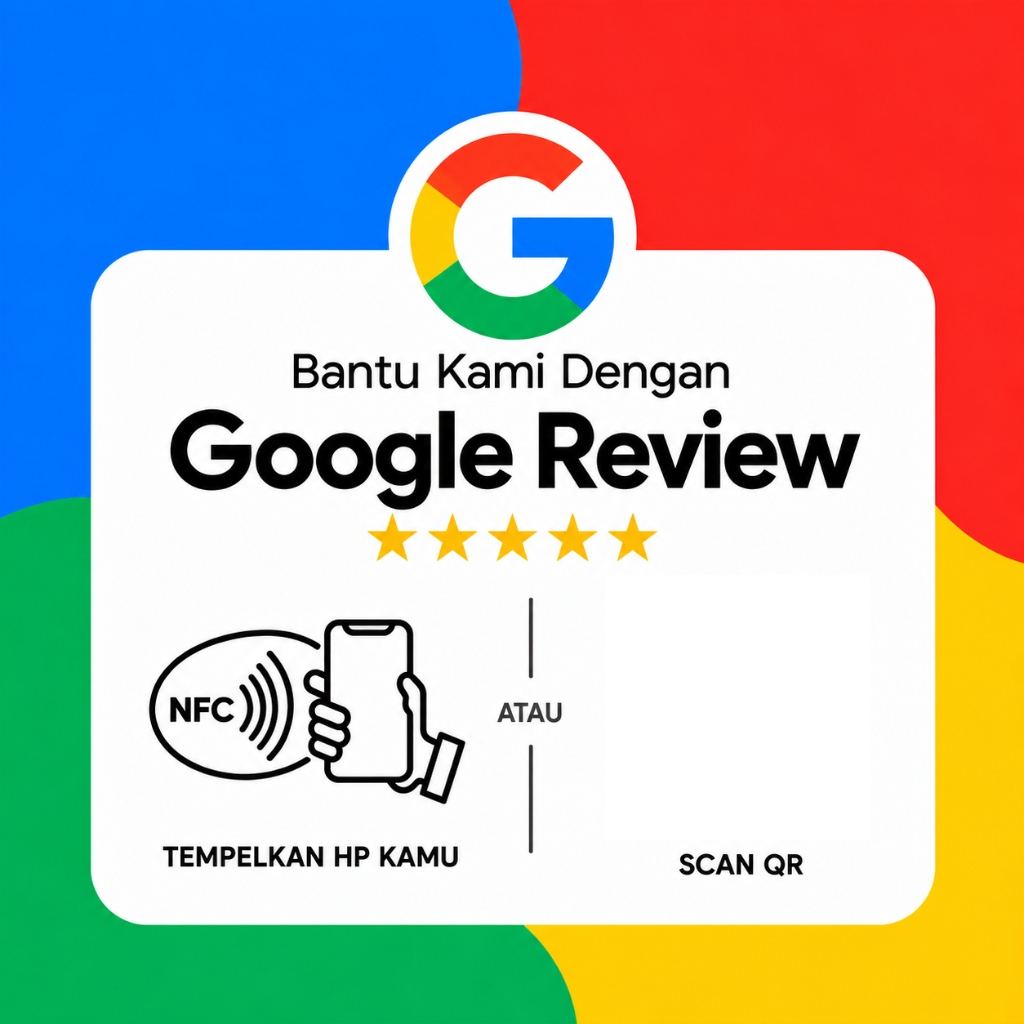
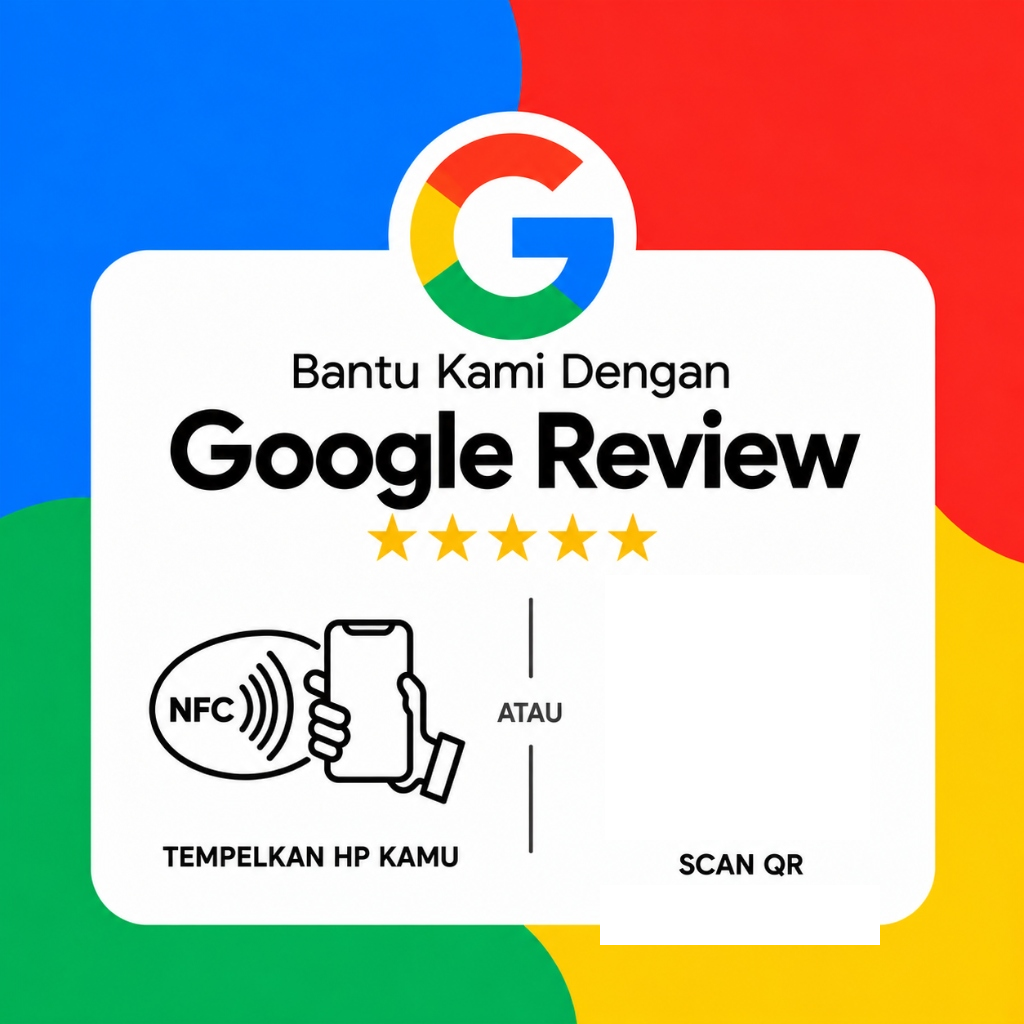
feat: hapus teks ID dari template kartu, atur ukuran kartu 10x10 cm, dan ekspor 2 foto per kartu di ZIP (desain kartu & QR code)

Changed region(s): [[0.5625, 0.875, 0.875, 0.9375]]

diff --git a/public/dashboard.html b/public/dashboard.html
@@ -1150,10 +1150,13 @@ function renderCardPreview(cardData) {
 
     <div style="display:flex;justify-content:space-between;align-items:center;width:100%">
       <span class="card-id-badge">ID: ${id}</span>
-      <a class="btn btn-secondary btn-sm" href="${url}" target="_blank">Buka</a>
+      <a class="btn btn-secondary btn-sm" href="${url}" target="_blank">Buka Link</a>
     </div>
 
-    <button type="button" class="btn btn-secondary btn-sm w-full" id="dl-png-${id}">Download PNG Kartu</button>
+    <div style="display:grid;grid-template-columns:1fr 1fr;gap:8px;width:100%">
+      <button type="button" class="btn btn-primary btn-sm" id="dl-png-${id}" title="Download Kartu Desain Google Review (10x10 cm)">Unduh Kartu</button>
+      <button type="button" class="btn btn-secondary btn-sm" id="dl-qr-${id}" title="Download Gambar QR Code saja">Unduh QR Saja</button>
+    </div>
   `;
 
   cardsCatalog.appendChild(wrap);
@@ -1167,6 +1170,16 @@ function renderCardPreview(cardData) {
   });
 
   wrap.querySelector(`#dl-png-${id}`).onclick = () => downloadMergedCardPNG(id, wrap);
+  wrap.querySelector(`#dl-qr-${id}`).onclick = () => downloadSingleQRPNG(id, wrap);
+}
+
+function downloadSingleQRPNG(id, wrapElement) {
+  const qrCanvas = wrapElement.querySelector(".qr-overlay-box canvas");
+  if (!qrCanvas) return;
+  const a = document.createElement("a");
+  a.download = `qrcode-${id}.png`;
+  a.href = qrCanvas.toDataURL("image/png");
+  a.click();
 }
 
 function downloadMergedCardPNG(id, wrapElement) {
@@ -1177,20 +1190,20 @@ function downloadMergedCardPNG(id, wrapElement) {
   bgImg.crossOrigin = "anonymous";
   bgImg.src = "/card-base.png";
   bgImg.onload = () => {
+    // Ukuran 10 x 10 cm pada 300 DPI = 1181 x 1181 piksel
     const canvas = document.createElement("canvas");
-    canvas.width = 1024;
-    canvas.height = 1024;
+    canvas.width = 1181;
+    canvas.height = 1181;
     const ctx = canvas.getContext("2d");
 
-    ctx.drawImage(bgImg, 0, 0, 1024, 1024);
-    ctx.drawImage(qrCanvas, 612, 585, 253, 245);
-    ctx.fillStyle = "#141414";
-    ctx.font = "bold 20px monospace";
-    ctx.textAlign = "center";
-    ctx.fillText("ID: " + id, 740, 915);
+    // Gambar background template kartu
+    ctx.drawImage(bgImg, 0, 0, 1181, 1181);
+    // Pasang QR Code tepat pada posisi kotak template (skala proporsional 10x10 cm)
+    // 612/1024 * 1181 = ~706, 585/1024 * 1181 = ~675, 253/1024 * 1181 = ~292, 245/1024 * 1181 = ~282
+    ctx.drawImage(qrCanvas, 706, 675, 292, 282);
 
     const a = document.createElement("a");
-    a.download = `kartu-nfc-review-${id}.png`;
+    a.download = `kartu-nfc-review-${id}-10x10cm.png`;
     a.href = canvas.toDataURL("image/png");
     a.click();
   };
@@ -1267,11 +1280,11 @@ btnRunGenerate.addEventListener("click", async () => {
   btnRunGenerate.textContent = "Generate Desain Kartu";
 });
 
-// DOWNLOAD ZIP SEMUA KARTU HASIL MERGE TEMPLATE
+// DOWNLOAD ZIP SEMUA KARTU HASIL MERGE TEMPLATE (2 FOTO PER KARTU: KARTU 10x10 & QR CODE)
 document.getElementById("btnDownloadZip").addEventListener("click", async () => {
   if (generatedCards.length === 0) return;
   const zip = new JSZip();
-  logStudio("Menyiapkan berkas ZIP kartu template...");
+  logStudio("Menyiapkan berkas ZIP: Kartu 10x10 cm + QR Code...");
 
   const bgImg = new Image();
   bgImg.crossOrigin = "anonymous";
@@ -1283,29 +1296,30 @@ document.getElementById("btnDownloadZip").addEventListener("click", async () => 
       const qrCanvas = wrap.querySelector(".qr-overlay-box canvas");
       if(!qrCanvas) continue;
 
+      // 1. Gambar Desain Kartu Ukuran 10 x 10 cm (1181 x 1181 px pada 300 DPI cetak)
       const canvas = document.createElement("canvas");
-      canvas.width = 1024;
-      canvas.height = 1024;
+      canvas.width = 1181;
+      canvas.height = 1181;
       const ctx = canvas.getContext("2d");
 
-      ctx.drawImage(bgImg, 0, 0, 1024, 1024);
-      ctx.drawImage(qrCanvas, 612, 585, 253, 245);
-      ctx.fillStyle = "#141414";
-      ctx.font = "bold 20px monospace";
-      ctx.textAlign = "center";
-      ctx.fillText("ID: " + c.id, 740, 915);
+      ctx.drawImage(bgImg, 0, 0, 1181, 1181);
+      ctx.drawImage(qrCanvas, 706, 675, 292, 282);
 
-      const b64 = canvas.toDataURL("image/png").split(",")[1];
-      zip.file(`kartu-${c.id}.png`, b64, { base64: true });
+      const cardB64 = canvas.toDataURL("image/png").split(",")[1];
+      zip.file(`kartu-${c.id}-10x10cm.png`, cardB64, { base64: true });
+
+      // 2. Gambar QR Code Terpisah
+      const qrB64 = qrCanvas.toDataURL("image/png").split(",")[1];
+      zip.file(`qrcode-${c.id}.png`, qrB64, { base64: true });
     }
 
-    zip.file("daftar-kartu.txt", generatedCards.map(c => `${c.id} -> ${c.url}`).join("\n"));
+    zip.file("daftar-kartu.txt", generatedCards.map(c => `ID: ${c.id}\nURL: ${c.url}\nUkuran Kartu: 10x10 cm\n-------------------------`).join("\n"));
     const blob = await zip.generateAsync({ type: "blob" });
     const a = document.createElement("a");
     a.href = URL.createObjectURL(blob);
-    a.download = "kartu-nfc-google-review.zip";
+    a.download = "paket-kartu-nfc-10x10cm.zip";
     a.click();
-    logStudio("Semua kartu template berhasil di-download.");
+    logStudio("Berkas ZIP berhasil diunduh (terisi 2 foto: Kartu 10x10 cm & QR Code terpisah).");
   };
 });
 
